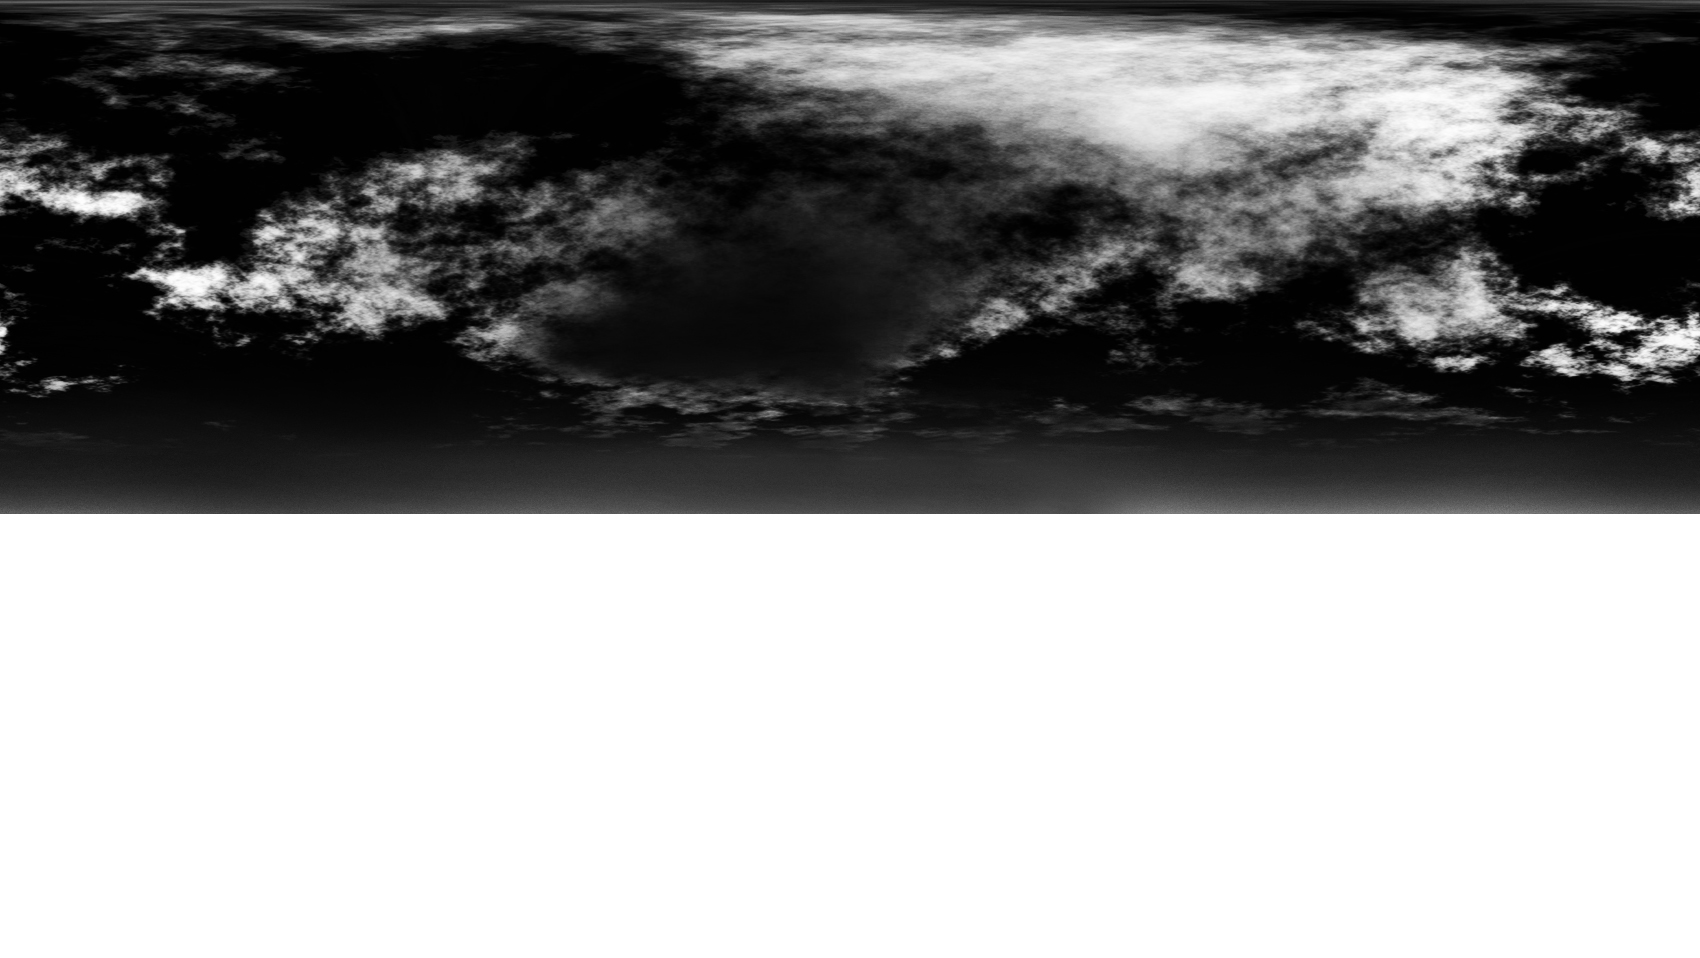
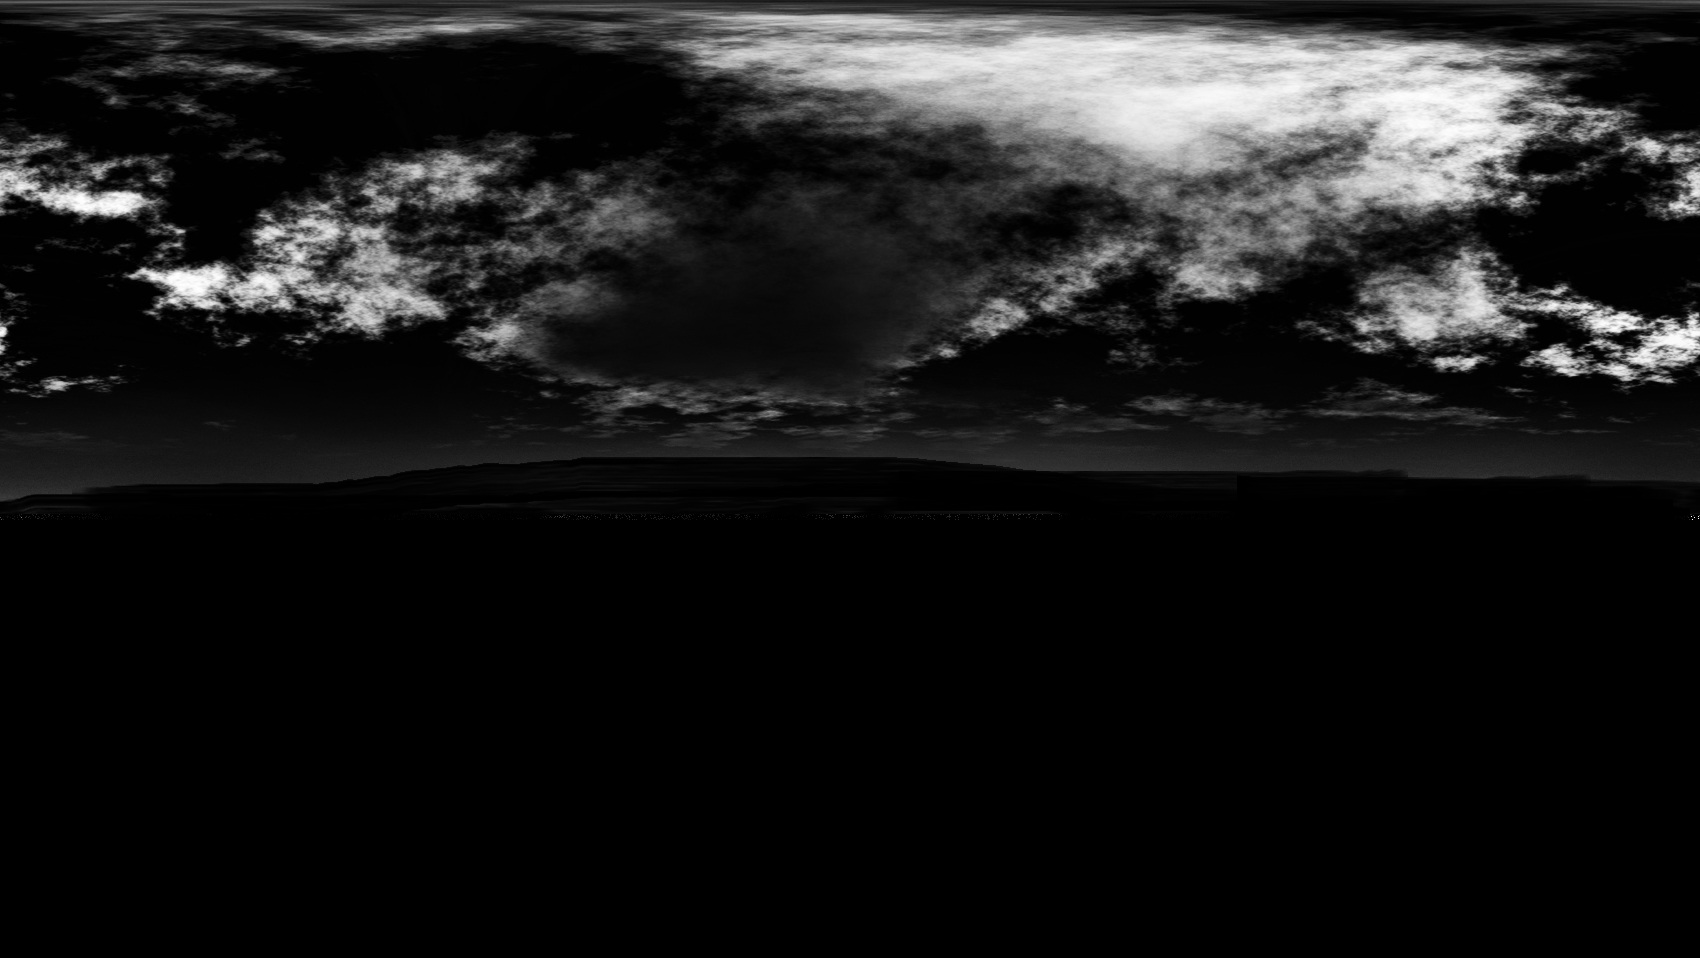
GOD RAY final

diff --git a/src/main/TerrainMain.java b/src/main/TerrainMain.java
@@ -32,8 +32,7 @@ public class TerrainMain {
     private static boolean wireframe = true;
 
     //Lights
-    private static final Vector3f lightPosition1 = new Vector3f(0.0f, 1.0f, 2.0f);
-    private static final Vector3f lightPosition2 = new Vector3f(0.0f, 0.1f, -4.0f);
+    private static Vector3f lightPosition1 = new Vector3f(0.0f, 0.0f, 20.0f);
     
     private static boolean holdLight =false;
     
@@ -59,6 +58,7 @@ public class TerrainMain {
     //matrix
     private static final Matrix4f sunModelMatrix = new Matrix4f();
     private static final Matrix4f cloudModelMatrix = new Matrix4f();
+    private static final Matrix4f cubeModelMatrix = new Matrix4f();
     
     // temp data
     private static final Matrix4f sunRotation = new Matrix4f();
@@ -144,7 +144,7 @@ public class TerrainMain {
             fbuffer2.BindFragDataLocations(BlurSP, "finalColor");
             
             
-            Util.translationX(49.0f, sunTranslation);
+            Util.translationX(5.0f, sunTranslation);
             Util.rotationX((float)Math.toRadians(-45.0), sunTilt);
             
             
@@ -179,7 +179,10 @@ public class TerrainMain {
         Geometry skyCloud  = GeometryFactory.createSkyDome(47, 50, 50);
         //Sonne
         Geometry sun = GeometryFactory.createQuad();
-
+        Geometry kugel1 =GeometryFactory.createSphere(1,20,20);
+        Geometry kugel2 =GeometryFactory.createSphere(1,20,20);
+        Geometry kugel3 =GeometryFactory.createSphere(1,20,20);
+        Geometry kugel4 =GeometryFactory.createSphere(1,20,20);
         
         Geometry geo = GeometryFactory.createScreenQuad();
         while(bContinue && !Display.isCloseRequested()) {
@@ -218,16 +221,40 @@ public class TerrainMain {
             shader.bind();
             shader.clear();
             
+            
+            //Quader zeichen
+            fboSP.setUniform("textureImage", quaderTexture);
+           
+            Util.translationX(1.1f,cubeModelMatrix);
+            matrix2uniform(cubeModelMatrix, modelLoc);
+            kugel1.draw();
+            
+            Util.translationX(-1.1f,cubeModelMatrix);
+            matrix2uniform(cubeModelMatrix, modelLoc);
+            kugel2.draw();
+            
+            Util.translationY(2.1f,cubeModelMatrix);
+            matrix2uniform(cubeModelMatrix, modelLoc);
+            kugel3.draw();
+            
+            Util.translation(new Vector3f(2.1f,1.1f,1.5f),cubeModelMatrix);
+            matrix2uniform(cubeModelMatrix, modelLoc);
+            
+            kugel4.draw();
+            glEnable(GL_BLEND);
+            
+            //Himmel
             fboSP.setUniform("textureImage", skydomeTexture);
             skyDome.draw();
             
-            glEnable(GL_BLEND);
             
             
-            fboSP.setUniform("textureImage", sunTexture);
-            matrix2uniform(sunModelMatrix, modelLoc);
-            sun.draw();
+            //Sonne
+//            fboSP.setUniform("textureImage", sunTexture);
+//            matrix2uniform(sunModelMatrix, modelLoc);
+//            sun.draw();
             
+            //Wolken
             fboSP.setUniform("textureImage", skyCloudTexture);
             matrix2uniform(cloudModelMatrix, modelLoc);
             skyCloud.draw();
@@ -237,16 +264,16 @@ public class TerrainMain {
 //            sunSP.use();
 //            Matrix4f sun_modelMatrix = new Matrix4f();
 //        	Matrix4f sun_modelIT = Util.transposeInverse(sun_modelMatrix, null);
-//            sunSP.setUniform("sunPosition", sunPosition);
+//            sunSP.setUniform("sunPosition", lightPosition1);
 //      		sunSP.setUniform("sun_model", 	 sun_modelMatrix);
 //      		sunSP.setUniform("sun_modelIT",  sun_modelIT);
 //      		sunSP.setUniform("sun_viewProj", Util.mul(null, cam.getProjection(), cam.getView()));
 //      		sunSP.setUniform("sunTexture", sunTexture);
-      		           
+//      		           
       		
         	shader.finish();
 
-            shader.DrawTexture(shader.getDiffuseTexture());
+           // shader.DrawTexture(shader.getDiffuseTexture());
             
 
             
@@ -256,27 +283,30 @@ public class TerrainMain {
             
             
         	//Lightning
-//            fbuffer1.bind();
-//            fbuffer1.clearColor();
-//            
-//			LightningSP.use();
-//            LightningSP.setUniform("normalTexture",  shader.getNormalTexture());
-//            LightningSP.setUniform("diffuseTexture",  shader.getDiffuseTexture());
-//            LightningSP.setUniform("specularTexture", shader.getSpecTexture());
-//            LightningSP.setUniform("eyePosition", cam.getCamPos());
-//            LightningSP.setUniform("bumpTexture", bumpQuaderTexture);
-//            LightningSP.setUniform("lightPosition1", lightPosition1);
-//            geo.draw();
-//            fbuffer1.unbind();
+            fbuffer1.bind();
+            fbuffer1.clearColor();
             
+			LightningSP.use();
+            LightningSP.setUniform("normalTexture",  shader.getNormalTexture());
+            LightningSP.setUniform("diffuseTexture",  shader.getDiffuseTexture());
+            LightningSP.setUniform("specularTexture", shader.getSpecTexture());
+            LightningSP.setUniform("eyePosition", cam.getCamPos());
+            LightningSP.setUniform("bumpTexture", bumpQuaderTexture);
+            LightningSP.setUniform("skyTexture", shader.getSkyTexture());
+            LightningSP.setUniform("lightPosition1", lightPosition1);
+            geo.draw();
+            fbuffer1.unbind();
             
-//			GodRaysSP.use();
-//			GodRaysSP.setUniform("worldTexture", shader.getSkyTexture());
-//			GodRaysSP.setUniform("diffuseTexture", shader.getDiffuseTexture());
-//			GodRaysSP.setUniform("model", 	 modelMatrix);
-//        	GodRaysSP.setUniform("viewProj", Util.mul(null, cam.getProjection(), cam.getView()));
-//			GodRaysSP.setUniform("lightPosition", lightPosition1);
-//			
+            fbuffer2.bind();
+            fbuffer2.clearColor();
+			GodRaysSP.use();
+			GodRaysSP.setUniform("diffuseTexture", FBTexture1);
+			GodRaysSP.setUniform("model", 	 modelMatrix);
+        	GodRaysSP.setUniform("viewProj", Util.mul(null, cam.getProjection(), cam.getView()));
+			GodRaysSP.setUniform("lightPosition", lightPosition1);
+			GodRaysSP.setUniform("skyTexture", shader.getSkyTexture());
+			geo.draw();
+			fbuffer2.unbind();		
             
             
 //            fbuffer2.bind();
@@ -295,10 +325,9 @@ public class TerrainMain {
 //    		sunRaysSP.setUniform("sun_model", 	 sun_modelMatrix);
 //    		sunRaysSP.setUniform("sun_modelIT",  sun_modelIT);
 //    		sunRaysSP.setUniform("sun_viewProj", Util.mul(null, cam.getProjection(), cam.getView()));
-      
             
             // Ausgabe auf dem Bildschirm
-    		//shader.DrawTexture(FBTexture1);
+    		shader.DrawTexture(FBTexture2);
             
             // present screen
             Display.update();
@@ -392,7 +421,10 @@ public class TerrainMain {
             Util.rotationY((0.005f)*Util.PI_MUL2 * ingameTime,cloudModelMatrix);
             
             //drehen des Lichtes 
+            //lightPosition1  = Util.transformCoord(sunModelMatrix, new Vector3f(1.0f,1.0f,1.0f), null);
             Util.transformCoord(Util.rotationY(10e-4f * (float)millis, null), lightPosition1, lightPosition1);
+            System.out.println(lightPosition1);
+    	
     	}
     }
     

diff --git a/src/util/GeometryFactory.java b/src/util/GeometryFactory.java
@@ -51,9 +51,9 @@ public class GeometryFactory {
         vertexData.put(new float[] {
             // position          // normal          // tangent         // tex coords
             0.0f, -1.0f, -1.0f,  0.0f, 0.0f, 1.0f,  0.0f, 0.0f, 1f, 0f, 0f,
-            0.0f, -1.0f, 1.0f,  0.0f, 0.0f, 1.0f,  1.0f, 0.0f, 1f, 0f, 0f,
+            0.0f, -1.0f, 1.0f,   0.0f, 0.0f, 1.0f,  1.0f, 0.0f, 1f, 0f, 0f,
             0.0f, +1.0f, -1.0f,  0.0f, 0.0f, 1.0f,  0.0f, 1.0f, 1f, 0f, 0f,
-            0.0f, +1.0f, 1.0f,  0.0f, 0.0f, 1.0f,  1.0f, 1.0f, 1f, 0f, 0f
+            0.0f, +1.0f, 1.0f,   0.0f, 0.0f, 1.0f,  1.0f, 1.0f, 1f, 0f, 0f
         });
     	
         vertexData.position(0);
